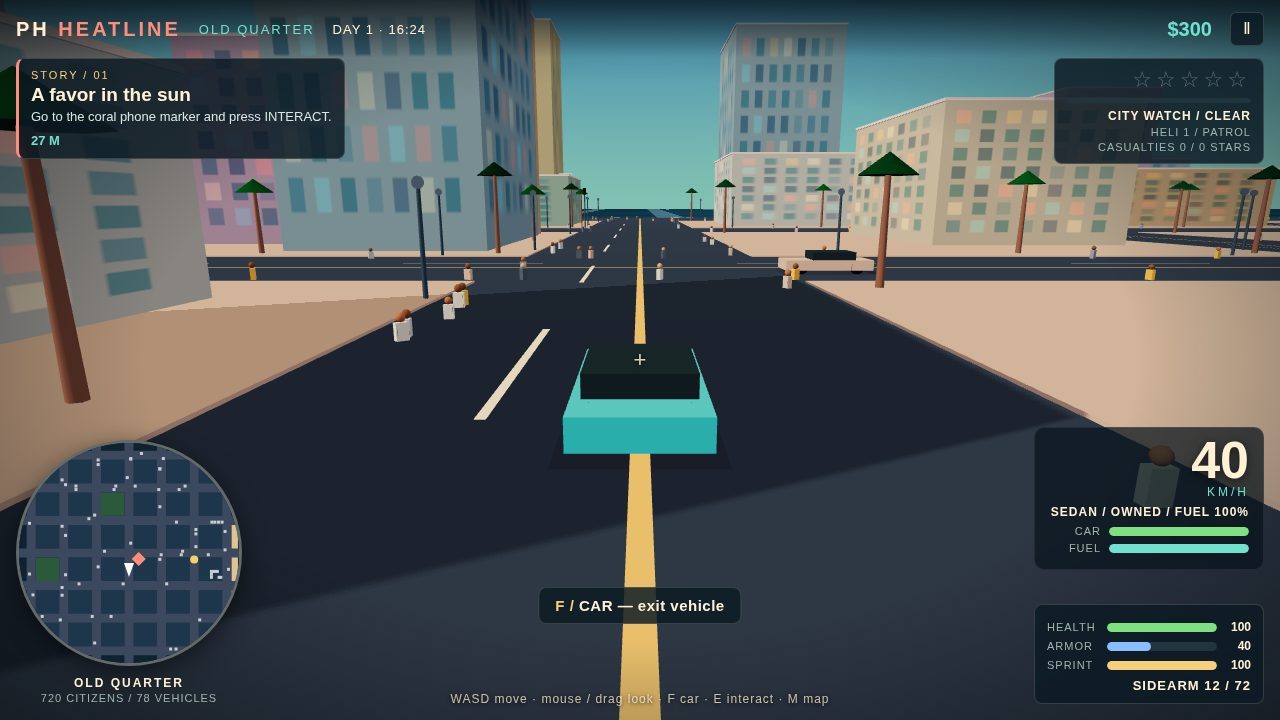
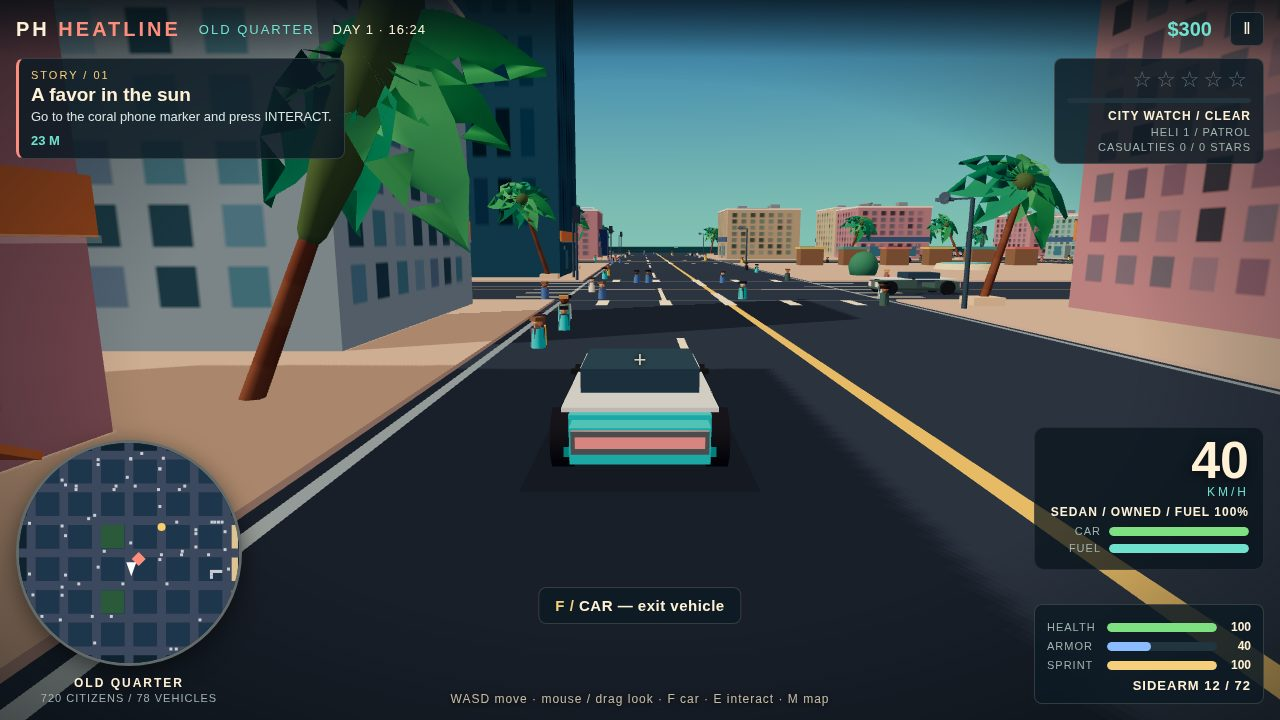
Visual revision: heli spotlight staging + litShare split, night camera, drive lane

diff --git a/game/world.js b/game/world.js
@@ -67,6 +67,11 @@
 
   function createWorld(game, canvas) {
     var renderer = new THREE.WebGLRenderer({ canvas: canvas, antialias: true });
+    // Physical light units (r155+): the heli SpotLight's intensity 210 is
+    // candela with 1/d^2 falloff, so it lights a modest pool instead of
+    // blasting the whole city (legacy mode has no distance falloff for it).
+    // Directional sun + hemisphere are unaffected by this flag.
+    if ('useLegacyLights' in renderer) renderer.useLegacyLights = false;
     renderer.setPixelRatio(Math.min(window.devicePixelRatio || 1, 1.5));
     renderer.setSize(canvas.clientWidth || 1280, canvas.clientHeight || 720, false);
     renderer.toneMapping = THREE.ACESFilmicToneMapping;
@@ -1269,7 +1274,7 @@
       spot.visible = false;
       scene.add(spot);
       var cone = new THREE.Mesh(new THREE.ConeGeometry(4.5, 1, 16, 1, true),
-        new THREE.MeshBasicMaterial({ color: 0xffedb7, transparent: true, opacity: 0.15, side: THREE.DoubleSide, depthWrite: false, blending: THREE.AdditiveBlending }));
+        new THREE.MeshBasicMaterial({ color: 0xffedb7, transparent: true, opacity: 0.15, side: THREE.FrontSide, depthWrite: false, blending: THREE.AdditiveBlending }));
       cone.visible = false;
       scene.add(cone);
       var disk = new THREE.Mesh(new THREE.CircleGeometry(4.5, 20),
@@ -1760,8 +1765,18 @@
             ud.ring.scale.setScalar(baseR / 4.5);
             ud.spot.position.set(h.x, h.y - 1, h.z);
             ud.spotTarget.position.set(tx, 0, tz);
-            // Intensity is split evenly when 2-3 helis shine together.
-            ud.spot.intensity = 210 * (game.litShare || 1);
+            // Intensity is split evenly when 2-3 helis shine together
+            // (reference §9: "dibagi rata supaya tidak menumpuk") — the
+            // light, the cone, the disc and the ring all share one budget,
+            // so three overlapping beams total 210 / 0.15 / 0.27 / 0.5.
+            var share = game.litShare || 1;
+            ud.spot.intensity = 210 * share;
+            // The cone is one beam per heli — the beams do not share a
+            // spot, so each keeps its full 0.15. The disc and ring do
+            // share the target spot, so they split like the light.
+            ud.cone.material.opacity = 0.15;
+            ud.disk.material.opacity = 0.27 * share;
+            ud.ring.material.opacity = 0.5 * share;
           } else {
             ud.spot.intensity = 0;
           }

diff --git a/game/main.js b/game/main.js
@@ -43,8 +43,10 @@
   function applyShotPreset(mode) {
     game.mission.active = true;
     if (mode === 'drive') {
-      moveSedanTo(0, 20);
-      game.player.x = 0; game.player.z = 20;
+      // Right lane (x 4.5), like the reference drive frame — not on the
+      // centre line.
+      moveSedanTo(4.5, 20);
+      game.player.x = 4.5; game.player.z = 20;
       game.toggleCar();
       shotSpeedTarget = 10; // 40 KM/H on the HUD
     } else if (mode === 'mission') {
@@ -64,6 +66,10 @@
       game.player.x = 0; game.player.z = -60;
       game.toggleCar();
       shotSpeedTarget = 20.5; // 82 KM/H on the HUD
+      // Far chase camera (zoom 23): like the reference night frame, the
+      // car reads small, the intersection reads wide, and the heli cones
+      // land on the car as narrow beams instead of filling the lens.
+      input.zoom = 23;
       var car = game.getCar();
       // Warm-up: let police cars, foot officers and helis arrive.
       for (var i = 0; i < 240; i++) {
@@ -71,6 +77,21 @@
       }
       if (car) { car.speed = shotSpeedTarget; car.yaw = Math.PI / 2; }
       game.shotContext = 'E / ACT — ROBBERY / rob the store';
+      // Stage the formation helis at their slots: the 240-tick warm-up is
+      // too short for them to fly in from the patrol route, and a heli
+      // still 100+ units out draws a 100+ long cone and a 2x-wide pool.
+      // (Same staging idea as the warm-up itself: the steady state the
+      // game reaches once the formation converges.)
+      if (game.helis) {
+        var p = game.player;
+        var fx = Math.cos(p.yaw), fz = Math.sin(p.yaw);
+        var offs = [[fx * 62, -fz * 62], [-fx * 62, fz * 62], [-fz * 72, -fx * 72]];
+        for (var hi2 = 0; hi2 < 3 && hi2 < game.helis.length; hi2++) {
+          var h2 = game.helis[hi2];
+          h2.x = p.x + offs[hi2][0]; h2.z = p.z + offs[hi2][1]; h2.y = 42;
+          h2.speed = 20; h2.mode = 'follow'; h2.active = true; h2.hidden = false;
+        }
+      }
     }
     // city: default spawn, on foot, 16:24 — nothing to change.
   }
